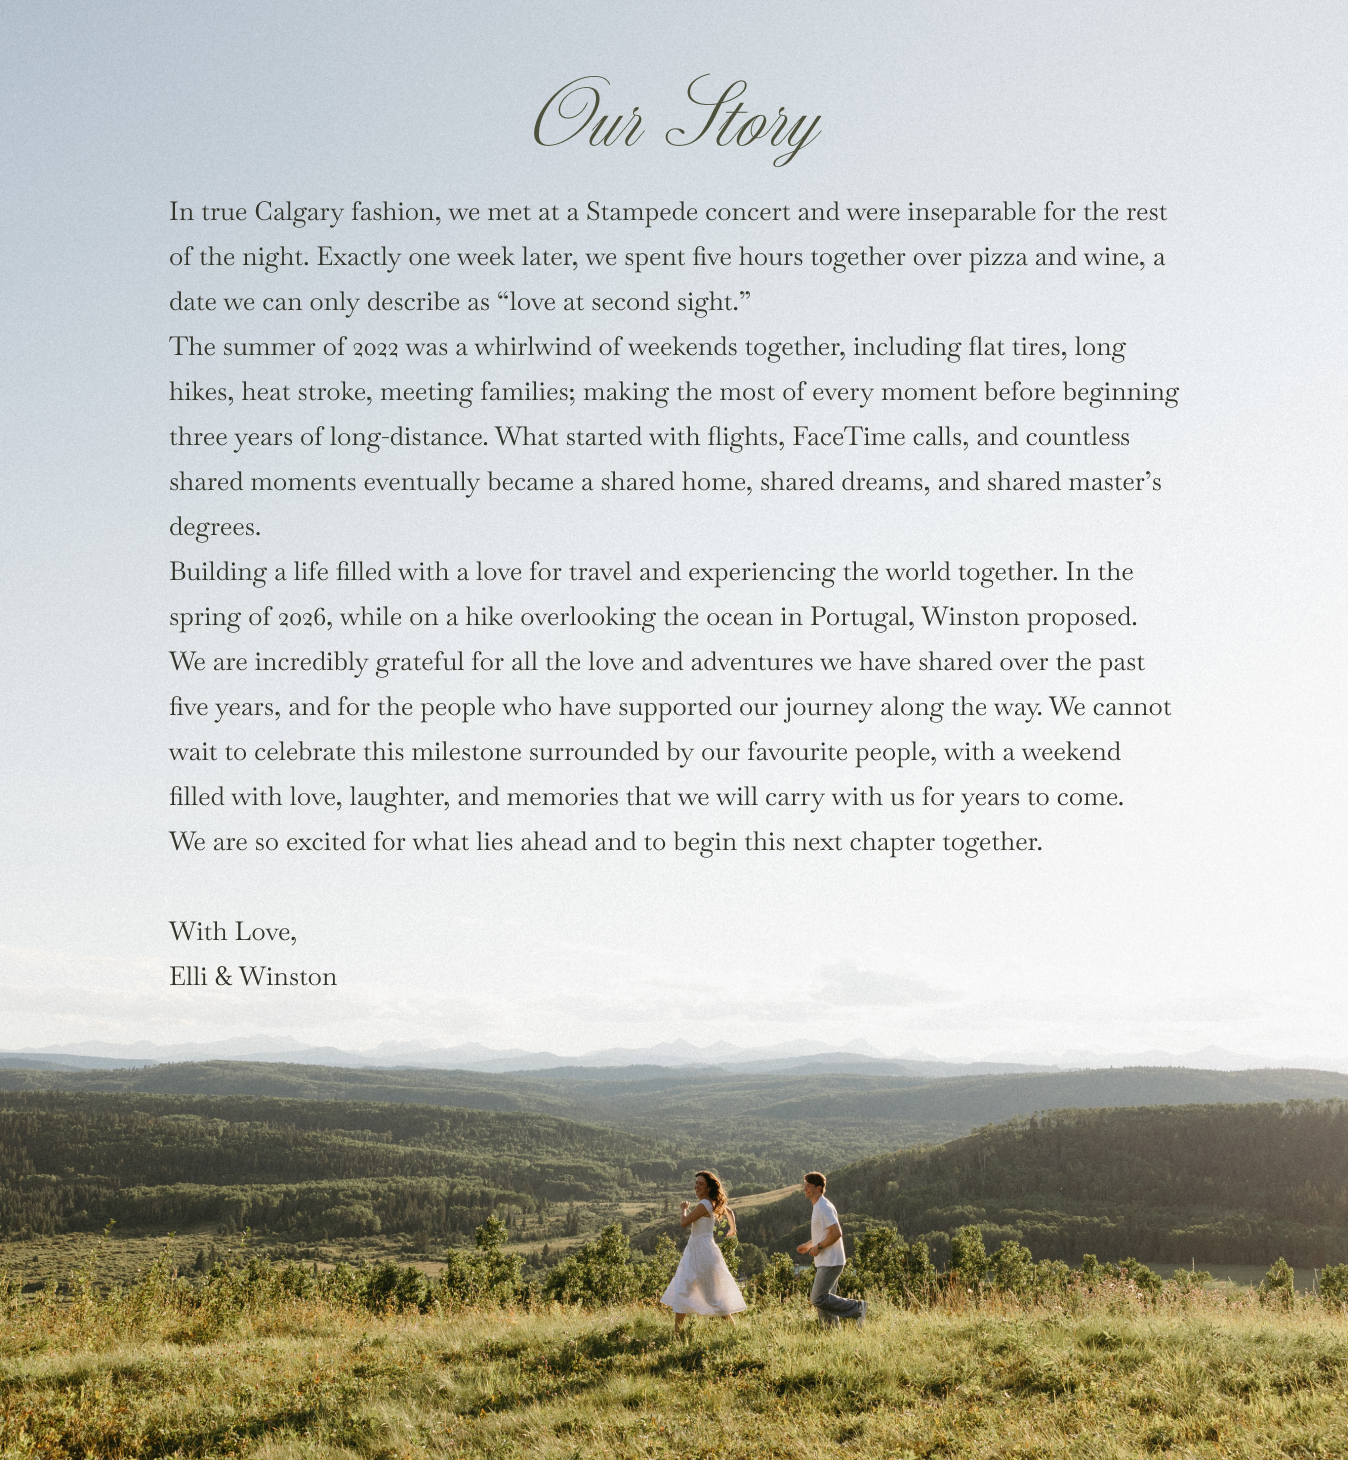
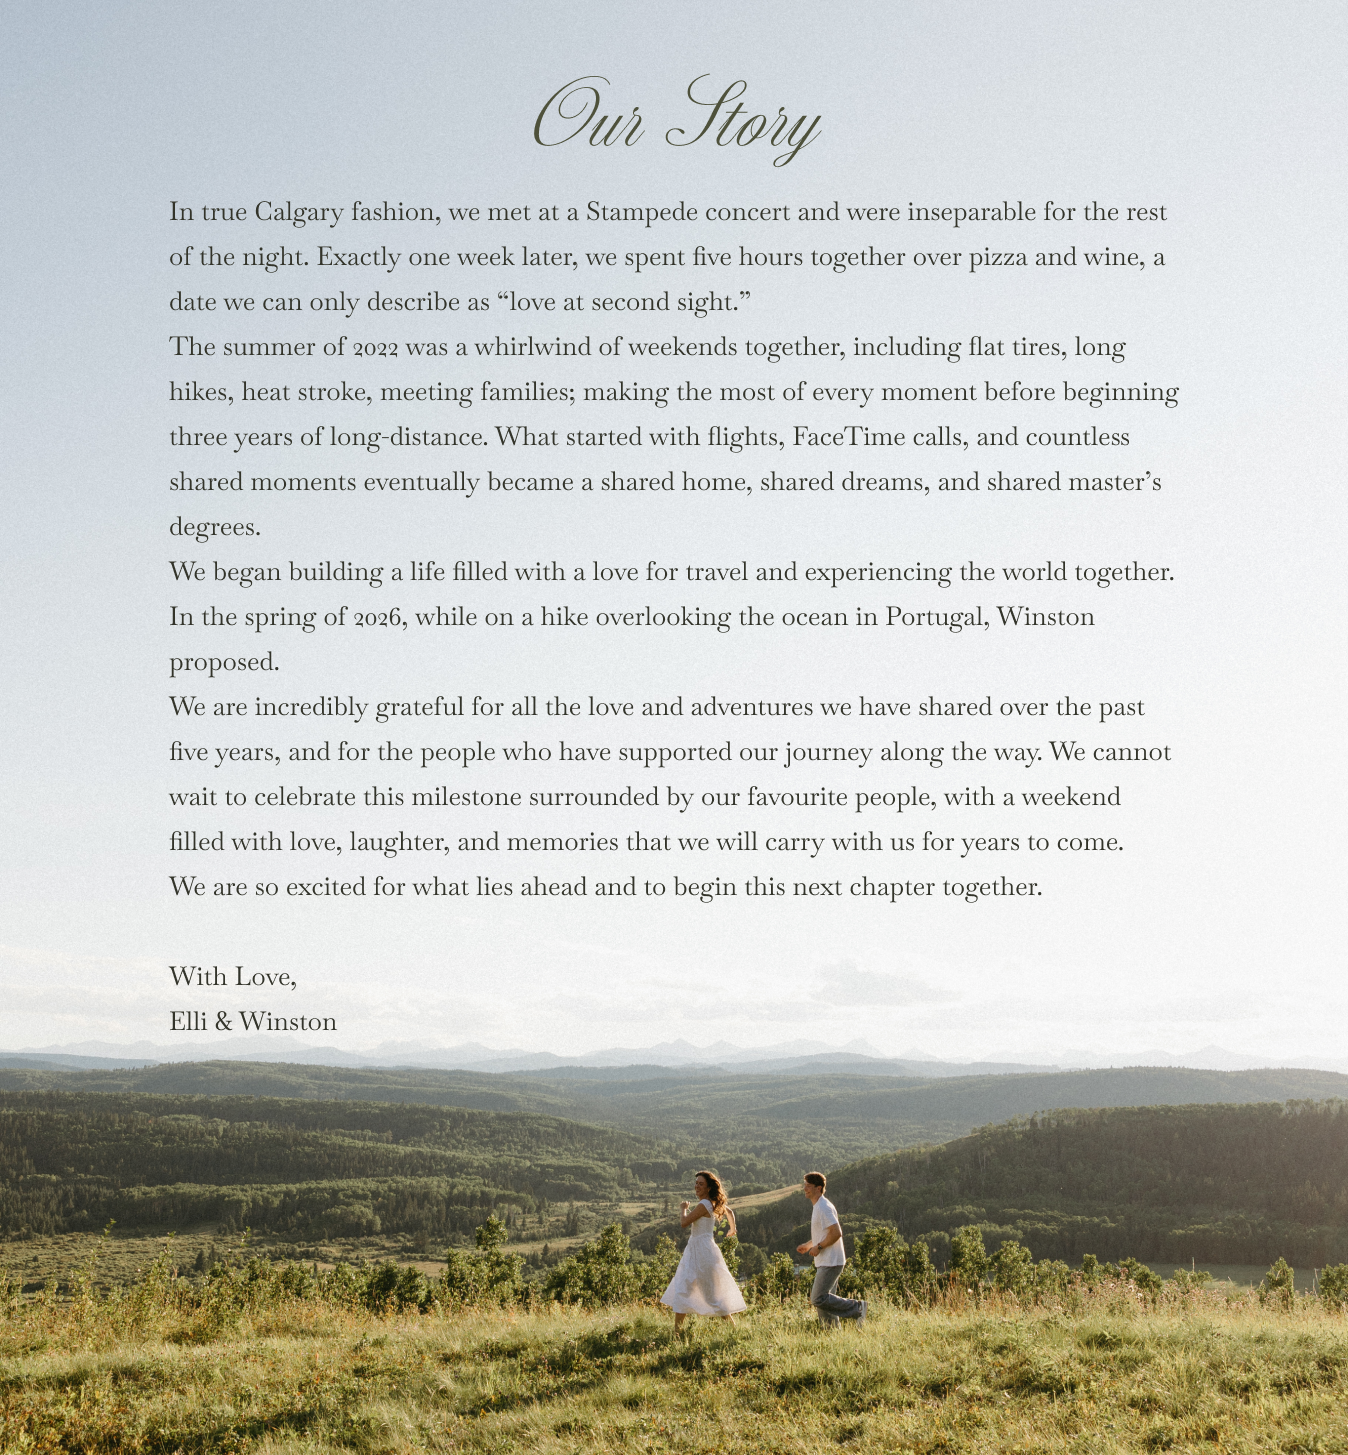
bug fixes

diff --git a/src/styles/components/contact.css b/src/styles/components/contact.css
@@ -19,7 +19,10 @@
   position: relative;
   width: 100%;
   max-width: 1920px;
-  aspect-ratio: 1280 / 316;
+  /* frame grew from 316 to fit the larger QUESTIONS? copy (title 48px,
+     3-line paragraph at 32px, closing line at 24px with the enlarged WE
+     mark) without clipping it */
+  aspect-ratio: 1280 / 360;
   overflow: hidden;
 }
 
@@ -35,22 +38,14 @@
 
 .contact__lilies {
   position: absolute;
+  /* flush against the frame's right edge (node 131:5), same as Figma; shifted
+     down past the frame's bottom so it bleeds off and gets cropped by the
+     stage's overflow: hidden, instead of leaving a gap under a shorter image */
   left: calc(var(--u) * 1079);
-  top: calc(var(--u) * -1);
+  top: calc(var(--u) * 89);
   width: calc(var(--u) * 201);
   height: calc(var(--u) * 316);
   object-fit: cover;
-  pointer-events: none;
-}
-
-/* WE_green (node 134:26), just left of "can't wait to celebrate…" */
-.contact__logo {
-  position: absolute;
-  left: calc(var(--u) * 492);
-  top: calc(var(--u) * 221);
-  width: calc(var(--u) * 42);
-  height: calc(var(--u) * 35);
-  object-fit: contain;
   pointer-events: none;
 }
 
@@ -60,30 +55,33 @@
   top: calc(var(--u) * 61);
   transform: translateX(-50%);
   width: calc(var(--u) * 656);
+  display: flex;
+  flex-direction: column;
+  align-items: center;
+  /* measured gap between each block in the Figma frame — using a flex gap
+     (instead of fixed absolute offsets) keeps blocks flush regardless of how
+     tall the paragraph actually renders */
+  gap: calc(var(--u) * 36);
   text-align: center;
   color: #000;
 }
 
 .contact__title {
   margin: 0;
-  height: calc(var(--u) * 52);
-  display: flex;
-  align-items: center;
-  justify-content: center;
   font-family: var(--font-subheading);
   font-weight: 400;
-  font-size: calc(var(--u) * 34);
-  letter-spacing: calc(var(--u) * 3.4);
+  font-size: calc(var(--u) * 48);
+  letter-spacing: calc(var(--u) * 4.8);
   color: var(--color-text-muted, #4e513b);
 }
 
 .contact__text {
-  margin: calc(var(--u) * 16) auto 0;
-  width: calc(var(--u) * 386);
+  margin: 0;
+  width: calc(var(--u) * 546);
   font-family: var(--font-body);
-  font-size: calc(var(--u) * 16);
-  line-height: calc(var(--u) * 25);
-  letter-spacing: calc(var(--u) * 1.6);
+  font-size: calc(var(--u) * 32);
+  line-height: calc(var(--u) * 35);
+  letter-spacing: calc(var(--u) * 3.2);
 }
 
 .contact__text a {
@@ -92,7 +90,21 @@
 }
 
 .contact__text--closing {
-  /* sits right of centre in the design (node 131:9) */
-  margin: calc(var(--u) * 19) 0 0 calc(var(--u) * 212);
-  width: calc(var(--u) * 291);
+  /* WE monogram (node 134:26) sits flush against the closing line, offset
+     30px from the paragraph's left edge */
+  display: flex;
+  align-items: center;
+  justify-content: flex-start;
+  padding-left: calc(var(--u) * 30);
+  font-size: calc(var(--u) * 24);
+  line-height: calc(var(--u) * 25);
+  letter-spacing: calc(var(--u) * 2.4);
+}
+
+.contact__logo {
+  width: calc(var(--u) * 61);
+  height: calc(var(--u) * 51);
+  object-fit: contain;
+  flex-shrink: 0;
+  pointer-events: none;
 }

diff --git a/src/components/ContactComponent.jsx b/src/components/ContactComponent.jsx
@@ -19,9 +19,6 @@ export default function ContactComponent() {
           aria-hidden="true"
         />
 
-        {/* WE monogram leading the closing line (node 134:26) */}
-        <img className="contact__logo" src="/images/WE_green.png" alt="" aria-hidden="true" />
-
         <div className="contact__copy">
           <h2 className="contact__title">questions?</h2>
           <p className="contact__text">
@@ -29,6 +26,8 @@ export default function ContactComponent() {
             <a href="mailto:ellianderson22@icloud.com">ellianderson22@icloud.com</a>
           </p>
           <p className="contact__text contact__text--closing">
+            {/* WE monogram leading the closing line (node 134:26) */}
+            <img className="contact__logo" src="/images/WE_green.png" alt="" aria-hidden="true" />
             can&rsquo;t wait to celebrate with you!
           </p>
         </div>

diff --git a/src/pages/RsvpPage.jsx b/src/pages/RsvpPage.jsx
@@ -108,7 +108,7 @@ export default function RsvpPage() {
               <textarea
                 id="address"
                 name="address"
-                placeholder="Street, city, state, zip"
+                placeholder="Street, city, province, postal code"
               />
             </div>
 

diff --git a/src/pages/DetailsPage.jsx b/src/pages/DetailsPage.jsx
@@ -156,7 +156,7 @@ export default function DetailsPage() {
         </Txt>
         <a
           className="details__badge"
-          style={at(505, 1741, 270, 90)}
+          style={at(532, 1765, 216, 53)}
           href={MAP_URL}
           target="_blank"
           rel="noopener noreferrer"
